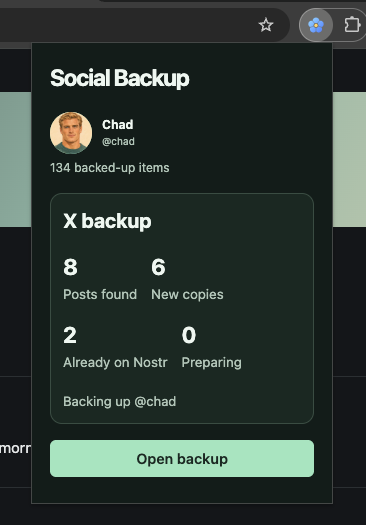
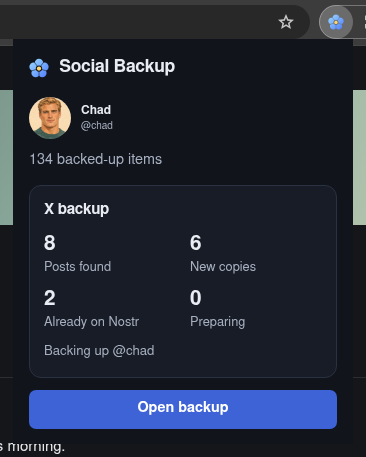
Refresh the download page screenshots for the blue layout

diff --git a/website/public/index.html b/website/public/index.html
@@ -35,10 +35,10 @@
         </div>
         <figure class="backup-preview">
           <picture>
-            <source media="(max-width: 35rem) and (prefers-color-scheme: dark)" srcset="./screenshots/toolbar-compact-dark.webp" width="366" height="525">
-            <source media="(max-width: 35rem)" srcset="./screenshots/toolbar-compact-light.webp" width="366" height="525">
-            <source media="(prefers-color-scheme: dark)" srcset="./screenshots/toolbar-desktop-dark.webp" width="730" height="557">
-            <img src="./screenshots/toolbar-desktop-light.webp" width="730" height="557" alt="The backup popup beneath its pinned Chrome toolbar icon, showing Chad’s avatar and eight captured X posts.">
+            <source media="(max-width: 35rem) and (prefers-color-scheme: dark)" srcset="./screenshots/toolbar-compact-dark.webp" width="366" height="457">
+            <source media="(max-width: 35rem)" srcset="./screenshots/toolbar-compact-light.webp" width="366" height="457">
+            <source media="(prefers-color-scheme: dark)" srcset="./screenshots/toolbar-desktop-dark.webp" width="730" height="508">
+            <img src="./screenshots/toolbar-desktop-light.webp" width="730" height="508" alt="Social Backup’s toolbar popup on Chad’s sample X profile shows eight posts found, six new copies and two already on Nostr.">
           </picture>
           <figcaption>The extension on a sample X profile.</figcaption>
         </figure>
@@ -62,8 +62,8 @@
         </ol>
         <figure class="backup-preview archive-preview">
           <picture>
-            <source media="(prefers-color-scheme: dark)" srcset="./screenshots/archive-dark.webp" width="760" height="396">
-            <img src="./screenshots/archive-light.webp" width="760" height="396" loading="lazy" alt="Chad’s sample backup has 134 saved items and a Download ZIP button.">
+            <source media="(prefers-color-scheme: dark)" srcset="./screenshots/archive-dark.webp" width="760" height="361">
+            <img src="./screenshots/archive-light.webp" width="760" height="361" loading="lazy" alt="The backup dashboard shows the navigation sidebar, 134 saved items and a blue Download ZIP button.">
           </picture>
           <figcaption>Choose Open backup in the popup to see everything you’ve saved.</figcaption>
         </figure>
